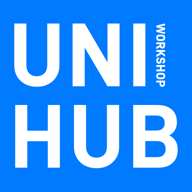
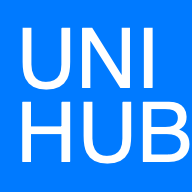
chore(frontend): update vite config, PWA assets, and env template

diff --git a/frontend/vite.config.ts b/frontend/vite.config.ts
@@ -9,9 +9,8 @@ export default defineConfig({
     basicSsl(),
     react(),
     VitePWA({
-      registerType: 'autoUpdate',
-      // Tắt SW khi dev để tránh conflict cache
-      devOptions: { enabled: false },
+      registerType: 'prompt',
+      devOptions: { enabled: true, type: 'module' },
       manifest: {
         name: 'UniHub Workshop',
         short_name: 'UniHub',
@@ -27,6 +26,7 @@ export default defineConfig({
       workbox: {
         // Precache app shell + check-in page
         globPatterns: ['**/*.{js,css,html,ico,png,svg,woff2}'],
+        navigateFallback: '/index.html',
         runtimeCaching: [
           {
             urlPattern: /^https:\/\/.*\.supabase\.co\/.*/i,

diff --git a/frontend/index.html b/frontend/index.html
@@ -2,8 +2,8 @@
 <html lang="vi">
   <head>
     <meta charset="UTF-8" />
-    <link rel="icon" type="image/png" href="/icon-192.png" />
-    <link rel="apple-touch-icon" href="/apple-touch-icon.png">
+    <link rel="icon" type="image/png" href="/icon-192.png?v=2" />
+    <link rel="apple-touch-icon" href="/apple-touch-icon.png?v=2">
     <meta name="viewport" content="width=device-width, initial-scale=1.0, viewport-fit=cover" />
     <meta name="apple-mobile-web-app-capable" content="yes">
     <meta name="apple-mobile-web-app-status-bar-style" content="default">